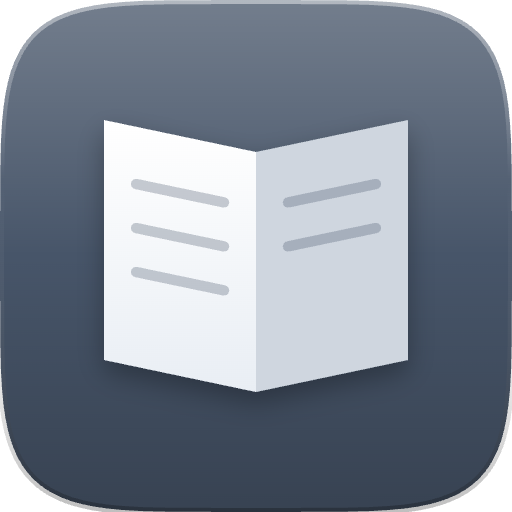
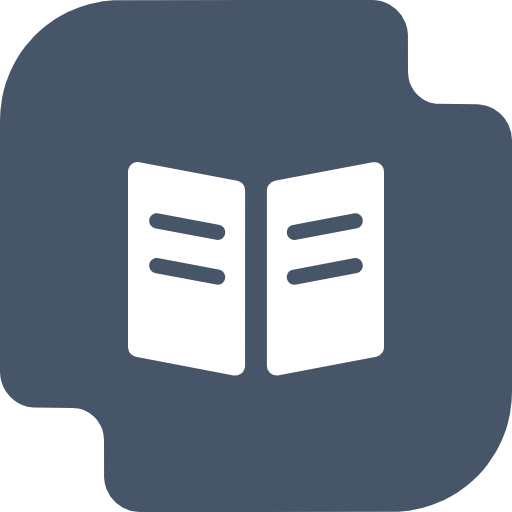
Brand copies from chanwe-brandbook 2.2.0 (brand:sync)

diff --git a/docker/chanwe/static/tokens.css b/docker/chanwe/static/tokens.css
@@ -1,4 +1,4 @@
-/* Generated from brand/tokens/tokens.json by scripts/brand-tokens.mjs. Do not edit; change tokens.json and run npm run brand:tokens. */
+/* Generated from brand/ui/tokens/tokens.json by scripts/brand-tokens.mjs. Do not edit; change tokens.json and run npm run brand:tokens. */
 :root {
   --cw-brand-primary: #FD3810;
   --cw-brand-primary-text: #FD3810;

diff --git a/CHANGELOG.md b/CHANGELOG.md
@@ -5,6 +5,10 @@ Outline's own changes are in its releases: https://github.com/outline/outline/re
 
 ## Unreleased
 
+- Brand copies synced from chanwe-brandbook 2.2.0 (`pnpm brand:sync`), the CHANWE v2 drawings this repo had not received
+  yet: the Wiki app icon and favicons (`docker/chanwe/images/`, `static/wiki.svg`, `static/favicon-32.png`), the
+  wordmark (`static/chanwe-logo.svg`), and `static/tokens.css` (only its comment: the kit's new tokens path).
+
 - robots.txt carries CHANWE's policy (`docker/chanwe-robots.cjs`, run by the Dockerfile): `Content-Signal: search=yes,
   ai-input=yes, ai-train=no` and a `Disallow: /` group for 28 AI-training and SEO-scraper crawlers; Outline's own rules
   stay. The first attempt edited `server/` and `app/`, which the image never builds, and was reverted; the terms link
